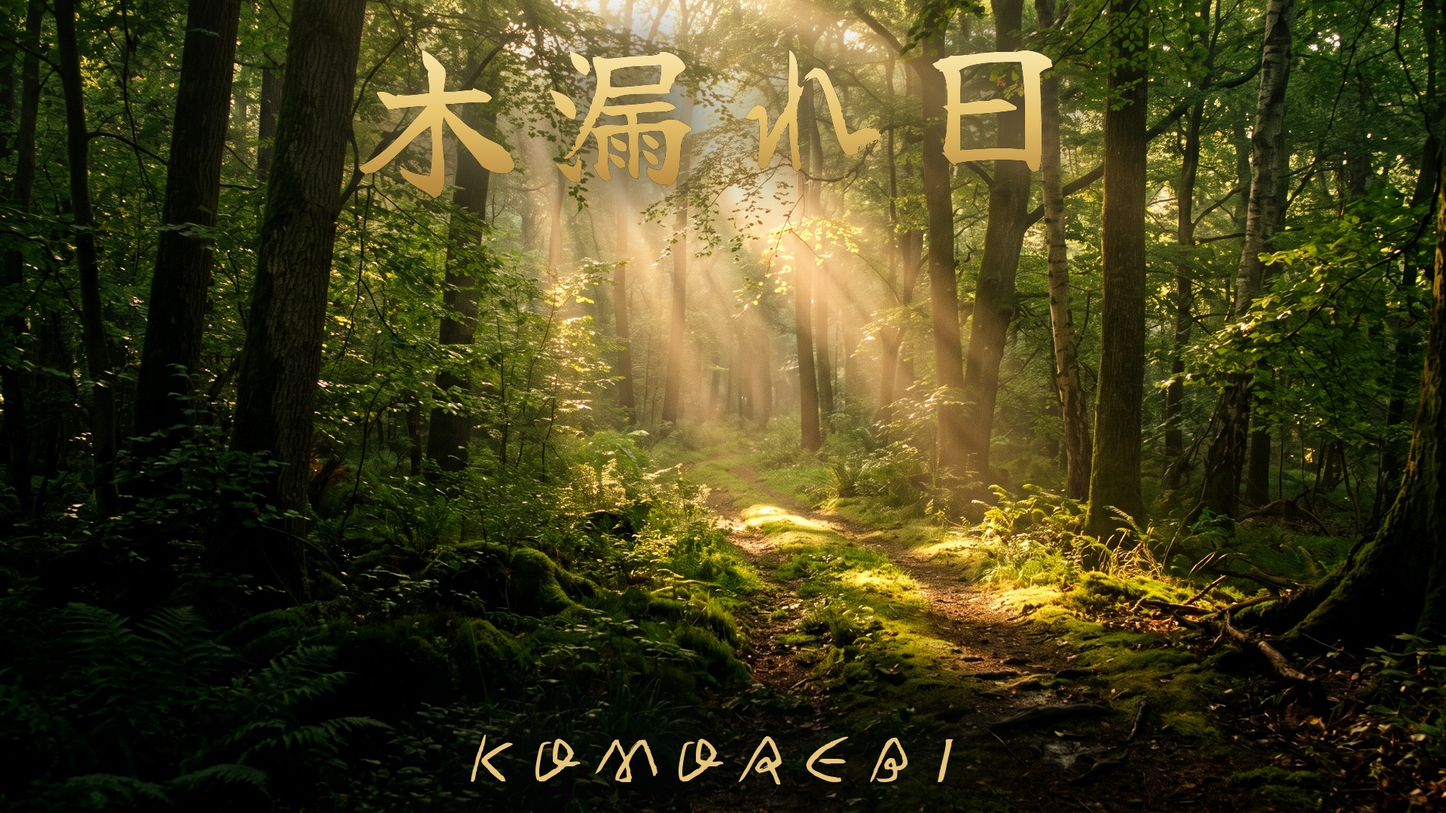
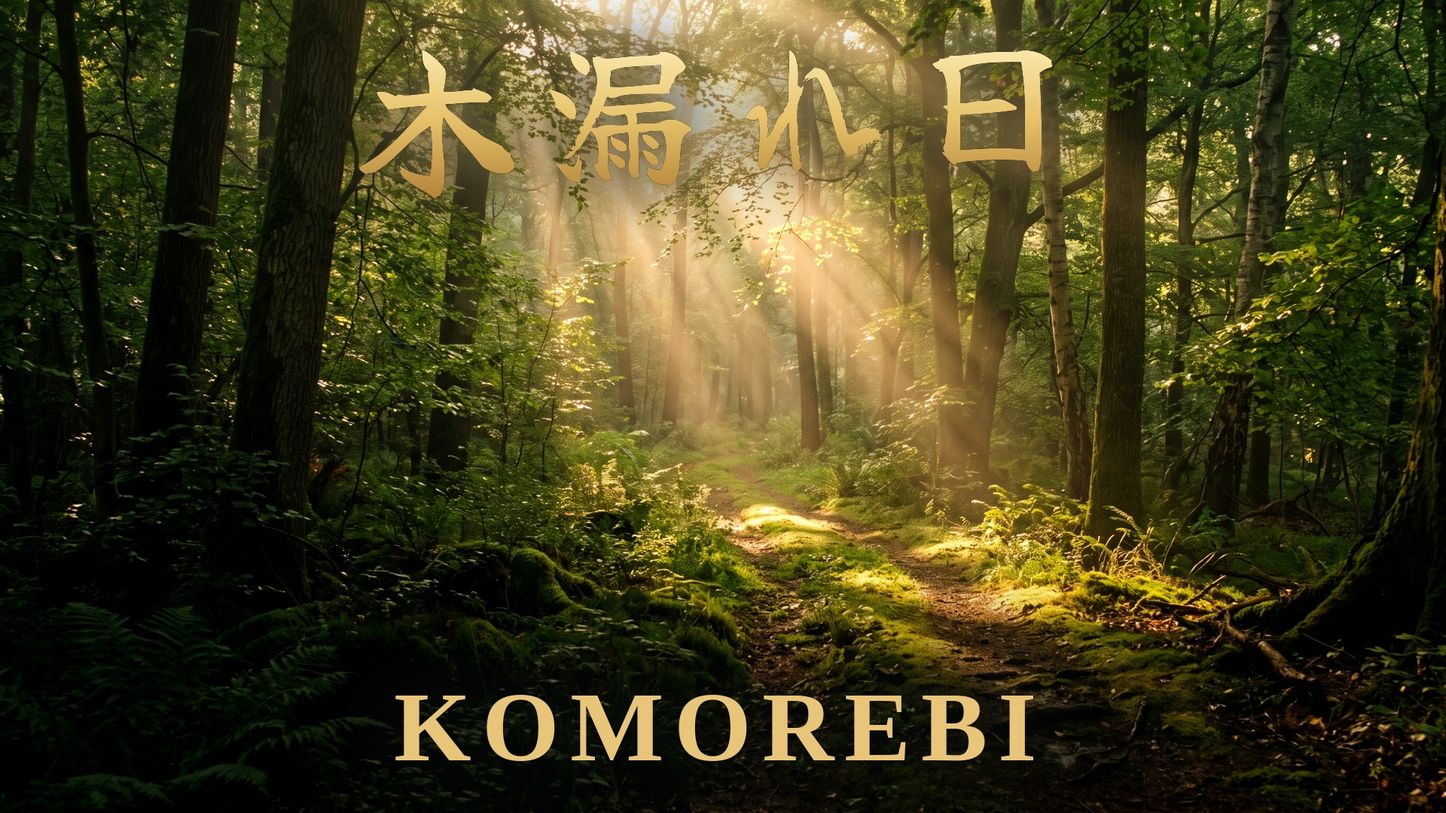
KOMOREBI thumbnail: KOMOREBI in large Liberation Serif Bold (legible), enlarged

Changed region(s): [[0.2812, 0.7639, 0.75, 0.9778], [0.6562, 0.7333, 0.7188, 0.7639], [0.5312, 0.7944, 0.5938, 0.825]]

diff --git a/stillwave/assets/komorebi-compose-thumb.py b/stillwave/assets/komorebi-compose-thumb.py
@@ -14,6 +14,7 @@ from PIL import Image, ImageDraw, ImageFont, ImageFilter, ImageEnhance
 
 SRC = "/home/user/dan-documents/stillwave/assets/komorebi-2h-source.jpg"
 KANJI = "/home/user/dan-documents/stillwave/assets/fonts/YujiBoku-Regular.ttf"
+SERIF = "/usr/share/fonts/truetype/liberation/LiberationSerif-Bold.ttf"
 OUT = "/home/user/dan-documents/stillwave/assets/komorebi-2h-thumb.jpg"
 W, H = 1920, 1080
 CREAM = (245, 234, 210, 255)
@@ -88,8 +89,8 @@ def sumi(im, chars, size, cx_centre, y, pitch, halo=44):
     im.alpha_composite(Image.composite(grad, Image.new("RGBA", (W, H), (0, 0, 0, 0)), mask))
 
 
-def spaced_centre(im, text, size, cx_centre, y, fill=CREAM, ls=16):
-    f = ImageFont.truetype(KANJI, size)
+def spaced_centre(im, text, size, cx_centre, y, fill=CREAM, ls=16, font=KANJI):
+    f = ImageFont.truetype(font, size)
     d = ImageDraw.Draw(im)
     widths = [d.textlength(c, font=f) for c in text]
     total = sum(widths) + ls * (len(text) - 1)
@@ -108,6 +109,6 @@ def spaced_centre(im, text, size, cx_centre, y, fill=CREAM, ls=16):
 im = base()
 CENTRE = 950   # the beam origin sits just about frame centre
 sumi(im, ["木", "漏", "れ", "日"], 224, CENTRE, 66, pitch=246)
-spaced_centre(im, "KOMOREBI", 84, CENTRE, 940, fill=GOLD, ls=18)  # low, on the path; brush font = calligraphic, warm gold
+spaced_centre(im, "KOMOREBI", 132, CENTRE, 892, fill=GOLD, ls=14, font=SERIF)  # low on the path; large legible Liberation Serif Bold
 im.convert("RGB").save(OUT, quality=94)
 print("saved", OUT)
